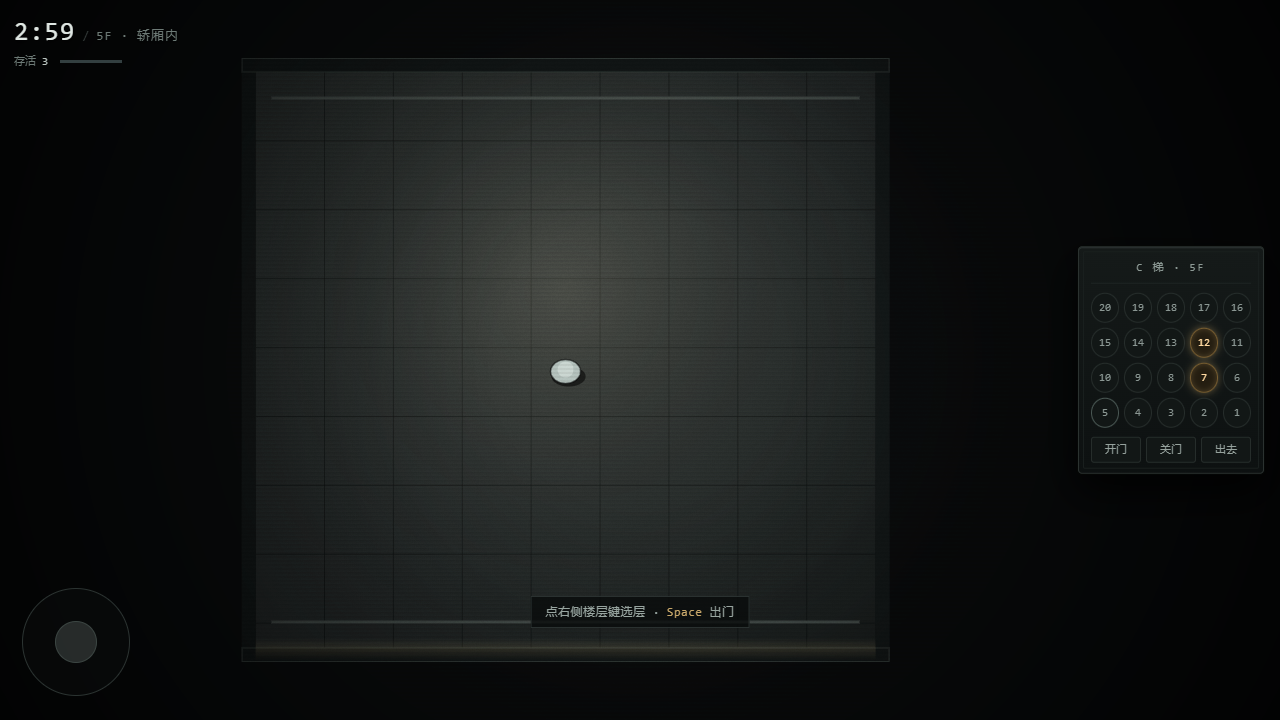
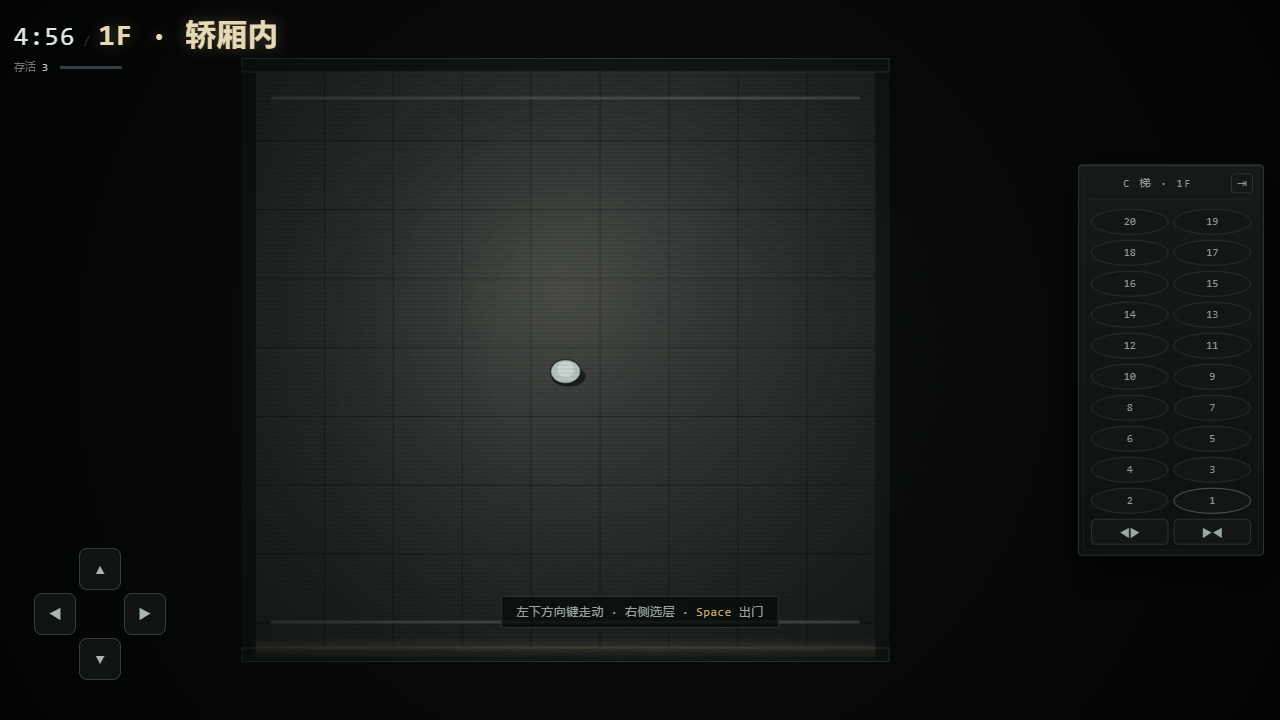
feat(v1.5): 电梯口互动细节(到站灯/开门倒计时/门缝警示条/消防栓/告示牌/地垫); 轿厢内方向键可在梯里挪动

diff --git a/js/ui.js b/js/ui.js
@@ -6,14 +6,14 @@
 var UI = (function () {
   var el = {};
   var game = null;
-  var lastHint = "", lastPanel = false, lastFloorTxt = "", lastCallPanel = false, lastStairPanel = false;
+  var lastHint = "", lastPanel = false, lastFloorTxt = "", lastCallPanel = false, lastStairPanel = false, lastCarPad = false;
 
   function $(id) { return document.getElementById(id); }
 
   function init(g) {
     game = g;
     ["clock", "floorNo", "aliveNo", "hint", "carPanel", "carPanelTitle", "carFloors",
-      "carExit", "callPanel", "cpReadC", "cpReadD", "cpUp", "cpDown", "stairPanel", "stUp", "stDown",
+      "carExit", "callPanel", "cpReadC", "cpReadD", "cpUp", "cpDown", "stairPanel", "stUp", "stDown", "carPad",
       "overlay", "overlayCard",
       "pause", "pauseResume", "pauseRestart", "joy", "knob", "staminaBar", "flashMsg"].forEach(function (k) {
       el[k] = $(k);
@@ -116,6 +116,14 @@ var UI = (function () {
       }
     }
 
+    /* 轿厢内方向键 */
+    var showPad = !!(W.player && W.player.space === "car");
+    if (showPad !== lastCarPad) {
+      lastCarPad = showPad;
+      el.carPad.classList.toggle("hidden", !showPad);
+      document.body.classList.toggle("inCar", showPad);
+    }
+
     /* 楼梯面板（走到楼梯口才出现） */
     var showStair = !!(W.nearStairs && W.nearStairs());
     if (showStair !== lastStairPanel) {
@@ -157,7 +165,7 @@ var UI = (function () {
     var p = W.player;
     if (!p.alive) return "";
     if (p.space === "stair") return "楼梯上…";
-    if (p.space === "car") return "点右侧楼层键选层 · <b>Space</b> 出门";
+    if (p.space === "car") return "左下方向键走动 · 右侧选层 · <b>Space</b> 出门";
     var g = W.geom;
     if (W.nearStairs && W.nearStairs()) return "楼梯间 · <b>E</b> 上楼 · <b>Q</b> 下楼";
     if (W.nearDoor && W.nearDoor()) {

diff --git a/js/input.js b/js/input.js
@@ -15,6 +15,7 @@ var Input = (function () {
   var keys = {};
   var joy = { active: false, dx: 0, dy: 0, id: null, cx: 0, cy: 0 };
   var clickTarget = null;     // 世界坐标，用于「点哪走哪」
+  var padOn = { up: false, down: false, left: false, right: false };  // 轿厢内屏幕方向键
   var els = {};
 
   function push(a) { actions.push(a); }
@@ -48,6 +49,22 @@ var Input = (function () {
       var p = Render.toWorld(e.clientX - r.left, e.clientY - r.top);
       clickTarget = p;
       push({ click: p, raw: { x: e.clientX - r.left, y: e.clientY - r.top } });
+    });
+
+    /* 轿厢内方向键（鼠标/触屏都能按） */
+    var padBtns = document.querySelectorAll("[data-cm]");
+    padBtns.forEach(function (b) {
+      var dir = b.dataset.cm;
+      if (!(dir in padOn)) return;
+      var set = function (on) {
+        padOn[dir] = on;
+        b.classList.toggle("on", on);
+      };
+      b.addEventListener("pointerdown", function (e) { e.preventDefault(); set(true); });
+      b.addEventListener("pointerup", function () { set(false); });
+      b.addEventListener("pointerleave", function () { set(false); });
+      b.addEventListener("pointercancel", function () { set(false); });
+      b.addEventListener("contextmenu", function (e) { e.preventDefault(); });
     });
 
     /* 触屏摇杆 */
@@ -113,6 +130,10 @@ var Input = (function () {
     if (keys["KeyW"] || keys["ArrowUp"]) y -= 1;
     if (keys["KeyS"] || keys["ArrowDown"]) y += 1;
     if (joy.active) { x += joy.dx; y += joy.dy; }
+    if (padOn.left) x -= 1;
+    if (padOn.right) x += 1;
+    if (padOn.up) y -= 1;
+    if (padOn.down) y += 1;
     var sp = sprint || !!(keys["ShiftLeft"] || keys["ShiftRight"]);
     return { x: x, y: y, sprint: sp };
   }

diff --git a/js/render.js b/js/render.js
@@ -316,6 +316,28 @@ var Render = (function () {
     /* 电梯厅 */
     propBox(c, g.hallX0 + 0.35, g.hallY0 + 0.45, 0.5, 0.42, "#20231f", "#2b2f28"); // 沙发/花盆
     propBox(c, g.hallX1 - 0.85, g.hallY0 + 0.45, 0.5, 0.42, "#20231f", "#2b2f28");
+
+    /* 厅里的墙面小物：消防栓箱（西）、告示牌（东）、地垫 */
+    propBox(c, g.hallX0 + 0.06, g.hallY0 + 1.35, 0.3, 0.62, "#3a2622", "#5a3330");
+    c.fillStyle = "rgba(200,90,80,0.32)";
+    c.fillRect(g.hallX0 + 0.13, g.hallY0 + 1.44, 0.16, 0.06);
+
+    c.fillStyle = "rgba(210,206,190,0.12)";
+    c.fillRect(g.hallX1 - 0.44, g.hallY0 + 1.45, 0.32, 0.46);
+    c.strokeStyle = "rgba(210,206,190,0.22)";
+    c.lineWidth = 0.01;
+    c.strokeRect(g.hallX1 - 0.44, g.hallY0 + 1.45, 0.32, 0.46);
+    c.fillStyle = "rgba(30,34,32,0.55)";
+    for (var li = 0; li < 6; li++) {
+      c.fillRect(g.hallX1 - 0.4, g.hallY0 + 1.52 + li * 0.058, 0.2 - (li % 3) * 0.045, 0.015);
+    }
+
+    /* 门前地垫（踩上去会有更闷的脚步） */
+    c.fillStyle = "rgba(28,32,30,0.55)";
+    c.fillRect(g.hallCX - 1.1, g.hallY0 + 0.55, 2.2, 1.5);
+    c.strokeStyle = "rgba(60,66,62,0.5)";
+    c.lineWidth = 0.014;
+    c.strokeRect(g.hallCX - 1.1, g.hallY0 + 0.55, 2.2, 1.5);
   }
 
   function propBox(c, x, y, w, h, fill, edge) {

diff --git a/styles.css b/styles.css
@@ -279,3 +279,26 @@ body.in-car #btns { display: none; }
 .stBtn span { font-size: 10px; letter-spacing: 2px; color: #5f6b67; }
 .stBtn:hover:not(:disabled) { color: #e2eae6; border-color: #4d5955; }
 .stBtn:disabled { opacity: .28; cursor: default; }
+
+
+/* ---------- 轿厢内方向键 ---------- */
+#carPad {
+  position: absolute; left: 34px; bottom: 40px;
+  width: 132px; height: 132px; z-index: 9;
+}
+body.inCar #joy { display: none; }
+#carPad .cpad {
+  position: absolute; width: 42px; height: 42px; border-radius: 8px;
+  font: inherit; font-size: 15px; line-height: 1; color: #a9b5b1;
+  background: rgba(16, 21, 20, .92); border: 1px solid #333d3a;
+  display: flex; align-items: center; justify-content: center;
+  touch-action: none; user-select: none;
+}
+#carPad .cpad.on, #carPad .cpad:active {
+  color: #ffd9a0; border-color: #7a5f31; background: #241d10;
+  box-shadow: 0 0 12px rgba(201,168,106,.45);
+}
+#carPad [data-cm="up"] { left: 45px; top: 0; }
+#carPad [data-cm="down"] { left: 45px; bottom: 0; }
+#carPad [data-cm="left"] { left: 0; top: 45px; }
+#carPad [data-cm="right"] { right: 0; top: 45px; }

diff --git a/index.html b/index.html
@@ -46,6 +46,14 @@
     <button class="stBtn" id="stDown" aria-label="下楼">▼<span>下楼</span></button>
   </div>
 
+  <!-- 轿厢内方向键：一个能"在电梯里挪动"的按钮组 -->
+  <div id="carPad" class="hidden">
+    <button class="cpad" data-cm="up" aria-label="往里走">▲</button>
+    <button class="cpad" data-cm="left" aria-label="往左">◀</button>
+    <button class="cpad" data-cm="right" aria-label="往右">▶</button>
+    <button class="cpad" data-cm="down" aria-label="到门口">▼</button>
+  </div>
+
   <!-- 轿厢面板：11 行 × 2 列，最后一行是开/关门图标 -->
   <div id="carPanel" class="hidden">
     <div id="carPanelTitle">C 梯 · 1F</div>

diff --git a/js/world.js b/js/world.js
@@ -841,7 +841,7 @@ var World = (function () {
   function panelVisible() {
     var p = W.player;
     if (!p || !p.alive || p.space === "stair") return false;
-    if (p.space === "car") return true;
+    if (p.space === "car") return false;
     var G2 = G;
     if (Geom.inRect(G2.hall, p.x, p.y, 0.1)) return true;
     return dist(p.x, p.y, G2.hallCX, G2.hallY0 + 1.2) < 5.2;

diff --git a/js/config.js b/js/config.js
@@ -9,7 +9,7 @@
 
 var CFG = {
   /* ---------- 版本 ---------- */
-  VERSION: "v1.4",
+  VERSION: "v1.5",
   TITLE: "电梯公寓大逃杀 2",
 
   /* ---------- 楼体（★ 与美术/版面直接相关） ---------- */

diff --git a/DEV.md b/DEV.md
@@ -122,6 +122,25 @@ KILLER.thinkSec: 0.22   // 决策间隔
 - `#stairPanel`：`world.nearStairs()` 为真时出现，两个按钮直接调 `World.playerTryStairs(±1)`。
 - 端头禁用靠 `player.floor >= CFG.FLOORS` / `<= 1` 判断。
 
+## 1.45 电梯口互动细节（v1.5）
+
+全部在 `js/render.js`：
+
+| 细节 | 位置 | 想调什么 |
+| --- | --- | --- |
+| 到站灯 | `drawElevator` 里 `lampOn` | 亮度/呼吸频率 |
+| 运行箭头 | 显示屏文字 `▲▼◦▪` | 字符 |
+| 开门倒计时 | `e.timer / CFG.ELEV.doorHoldSec` | 改 `ELEV.doorHoldSec` 就会跟着变 |
+| 门缝警示条 | `hazardA`（closing 时闪烁） | 闪烁频率 `world.time*18` |
+| 消防栓/告示牌/地垫 | `bakeProps` 的电梯厅段 | 位置与颜色 |
+
+## 1.46 轿厢内方向键（v1.5）
+
+- DOM：`index.html` 的 `#carPad`，四个 `[data-cm]` 按钮；只在 `player.space === 'car'` 时显示（`ui.js` 里 `showPad`）。
+- 输入：`input.js` 的 `padOn{up,down,left,right}`，在 `poll()` 里直接叠加到主轴，和 WASD/摇杆同一套。
+- 进轿厢时给 `<body>` 加 `inCar` 类，`styles.css` 用它隐藏摇杆（`body.inCar #joy{display:none}`）。
+- 想改键位/大小：`styles.css` 的 `#carPad` 与 `.cpad`。
+
 ## 2. 想改难度：只动这 5 个
 
 ```js

diff --git a/README.md b/README.md
@@ -14,6 +14,17 @@
 
 ---
 
+## v1.5 变更
+
+- **电梯口的互动细节**：
+  - 门上方显示屏加了**到站灯**（车在本层整块亮起、运行中缓慢呼吸）和运行箭头；
+  - 门开着时显示屏下方有一条**开门倒计时**（剩得越少越红，提醒你快进去）；
+  - 门缝两侧加了**黄黑警示条**，关门时闪烁；
+  - 电梯厅里补了**消防栓箱、告示牌、门前地垫、楼层牌**，地垫踩上去脚步更闷；
+  - 离开电梯后会收起呼梯面板（进梯里就不再重复显示）。
+- **轿厢里能走了**：进梯后左下出现一组**方向键 ▲◀▶▼**，鼠标或触屏按住就能在轿厢内挪动；同时把摇杆收起来，避免两者打架。右侧仍是 11×2 的楼层/开关门面板。
+- 轿厢提示改为「左下方向键走动 · 右侧选层 · Space 出门」。
+
 ## v1.4 变更
 
 - **楼梯也能按**：走到楼梯口会弹出 `▲ 上楼 / ▼ 下楼` 两个按钮，纯鼠标就能上下楼（1 楼按不了下楼、20 楼按不了上楼）。键盘 `E/Q` 照旧。
